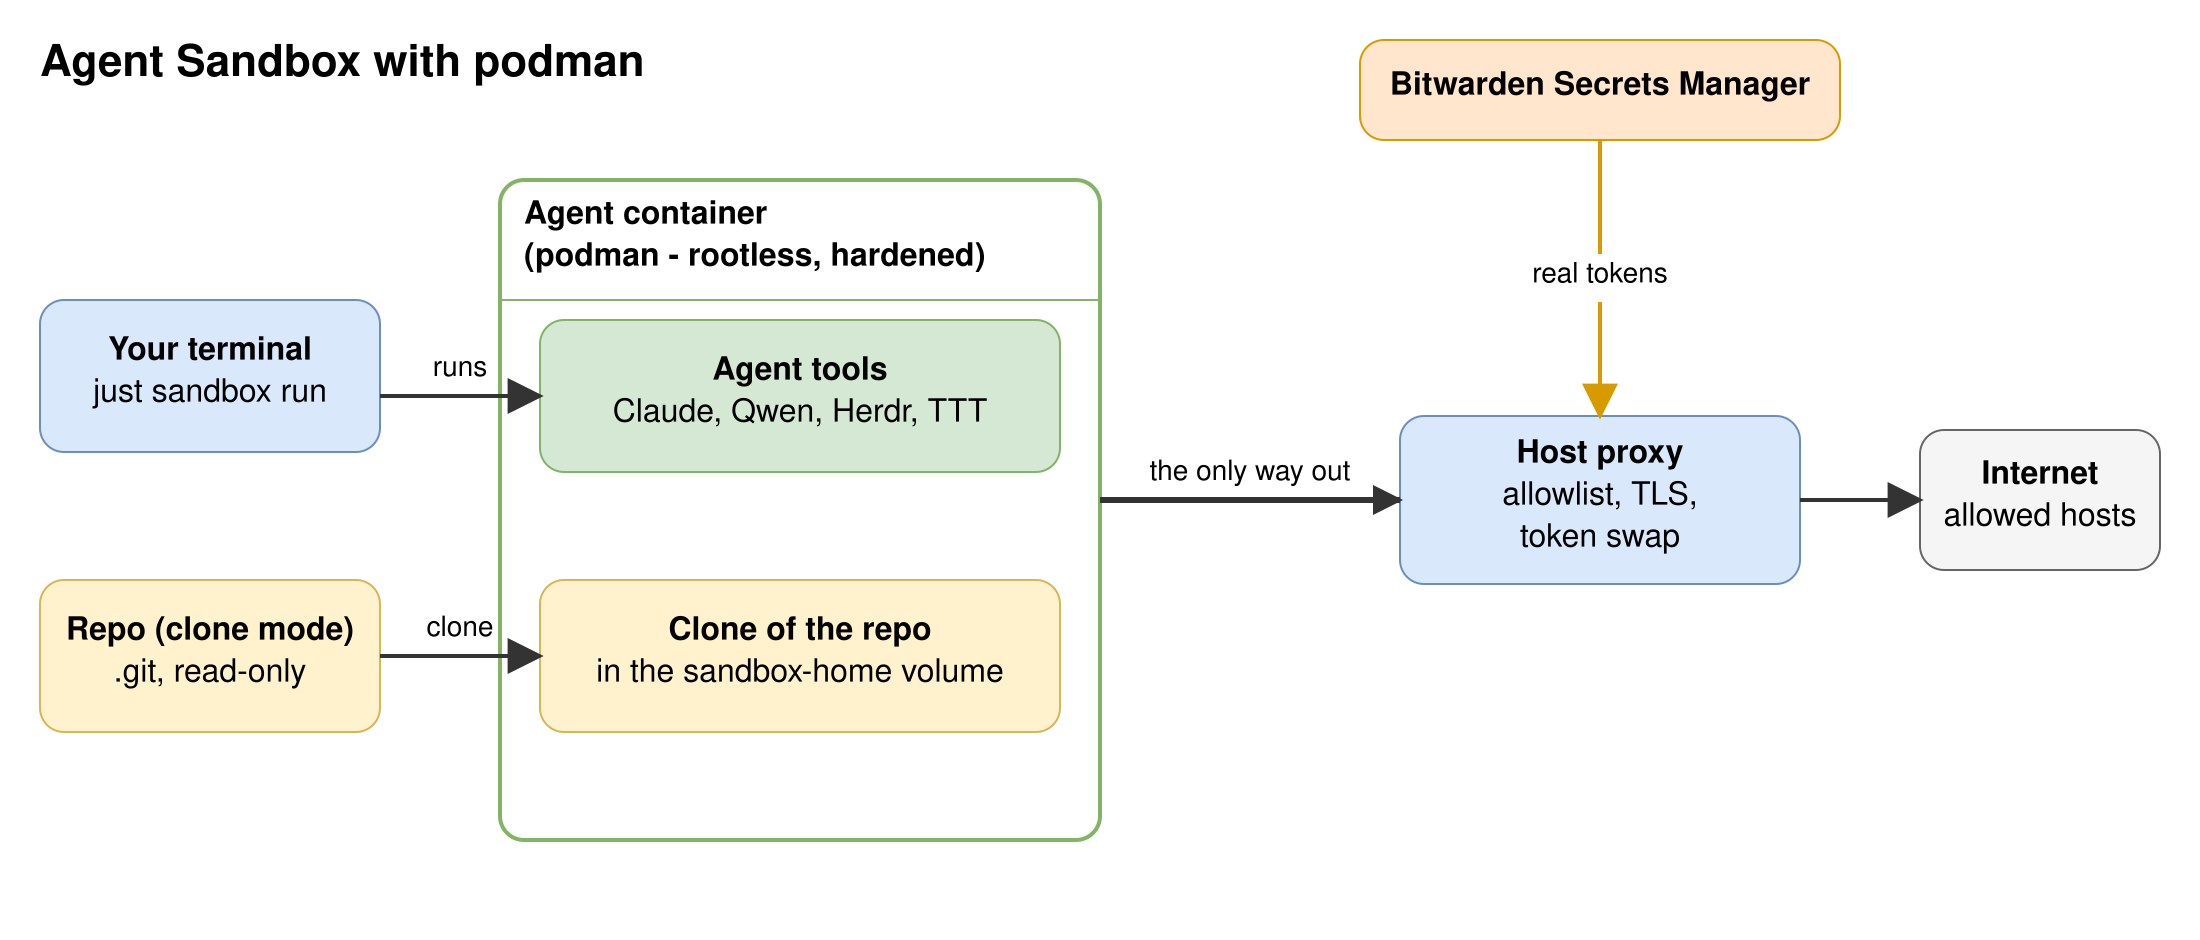
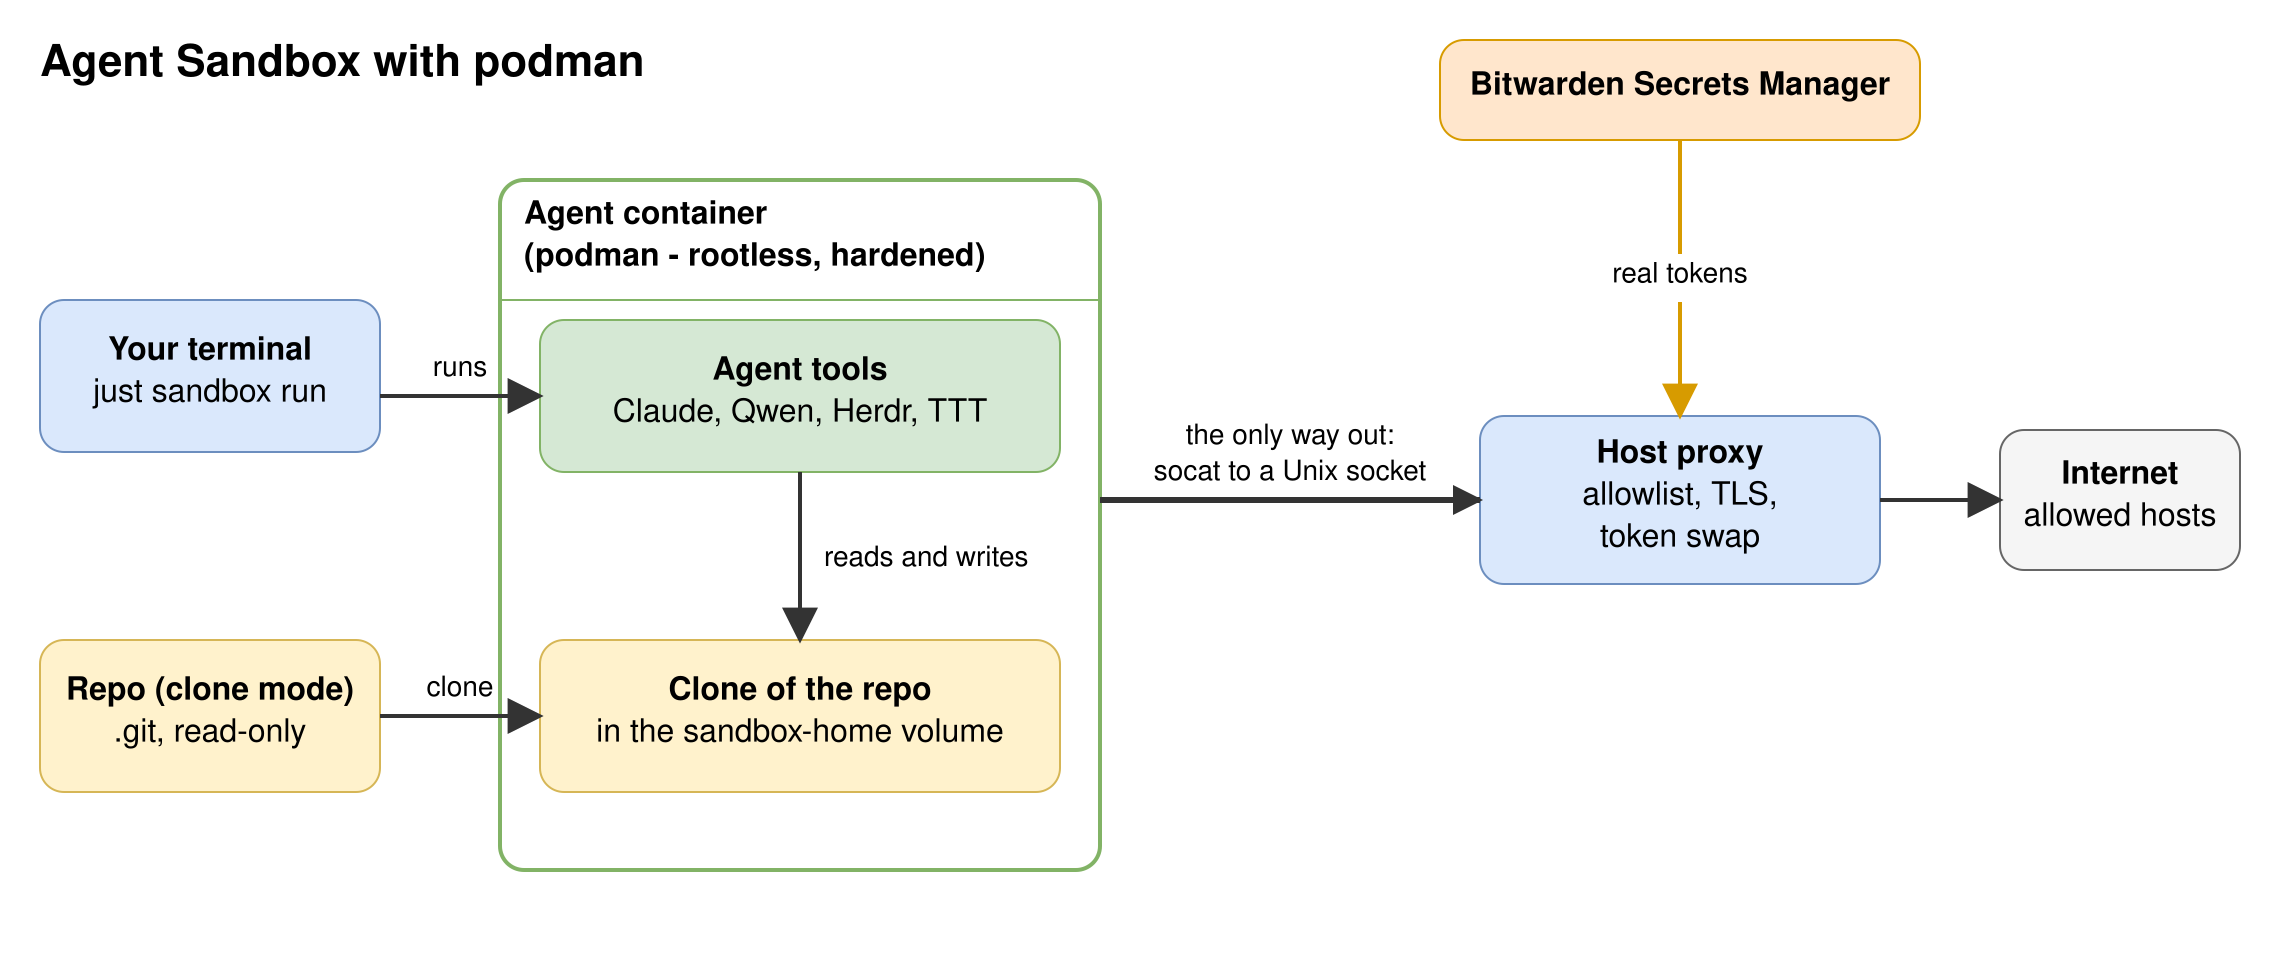
sandbox: link the agent tools to the clone and name the relay in the diagram
The agent tools now have an arrow "reads and writes" to the clone of the repo.
The label of "the only way out" names the socat relay and the Unix socket. The
diagram has eight shapes and six arrows.

diff --git a/.sandbox/docs/diagrams/README.md b/.sandbox/docs/diagrams/README.md
@@ -2,7 +2,7 @@
 
 | File | Use |
 |---|---|
-| `architecture.drawio` | The source of the architecture diagram. It shows your terminal and the repo in clone mode. It shows the agent container (rootless Podman, hardened) with the agent tools and the clone of the repo in the volume `sandbox-home`. It shows the only way out, the host proxy (allowlist, TLS and token swap), Bitwarden Secrets Manager and the Internet. The relay and the socket bridge are in the text of `../../README.md`. |
+| `architecture.drawio` | The source of the architecture diagram. It shows your terminal and the repo in clone mode. It shows the agent container (rootless Podman, hardened) with the agent tools and the clone of the repo in the volume `sandbox-home`. The agent tools work in that clone. It shows the only way out, the host proxy (allowlist, TLS and token swap), Bitwarden Secrets Manager and the Internet. The label of the only way out names the `socat` relay and the Unix socket. The socket bridge is in the text of `../../README.md`. |
 | `architecture.svg` | The diagram as a plain SVG: real `<text>` elements, a white background and no `foreignObject`. It is drawn from the coordinates of the `.drawio` file. The export of draw.io wraps each label in `foreignObject` and uses `light-dark()` colors. Many viewers do not draw them. |
 | `architecture.png` | The PNG of the SVG, 2x with a white background. Make it with `rsvg-convert -z 2 -b white architecture.svg -o architecture.png`. |
 
